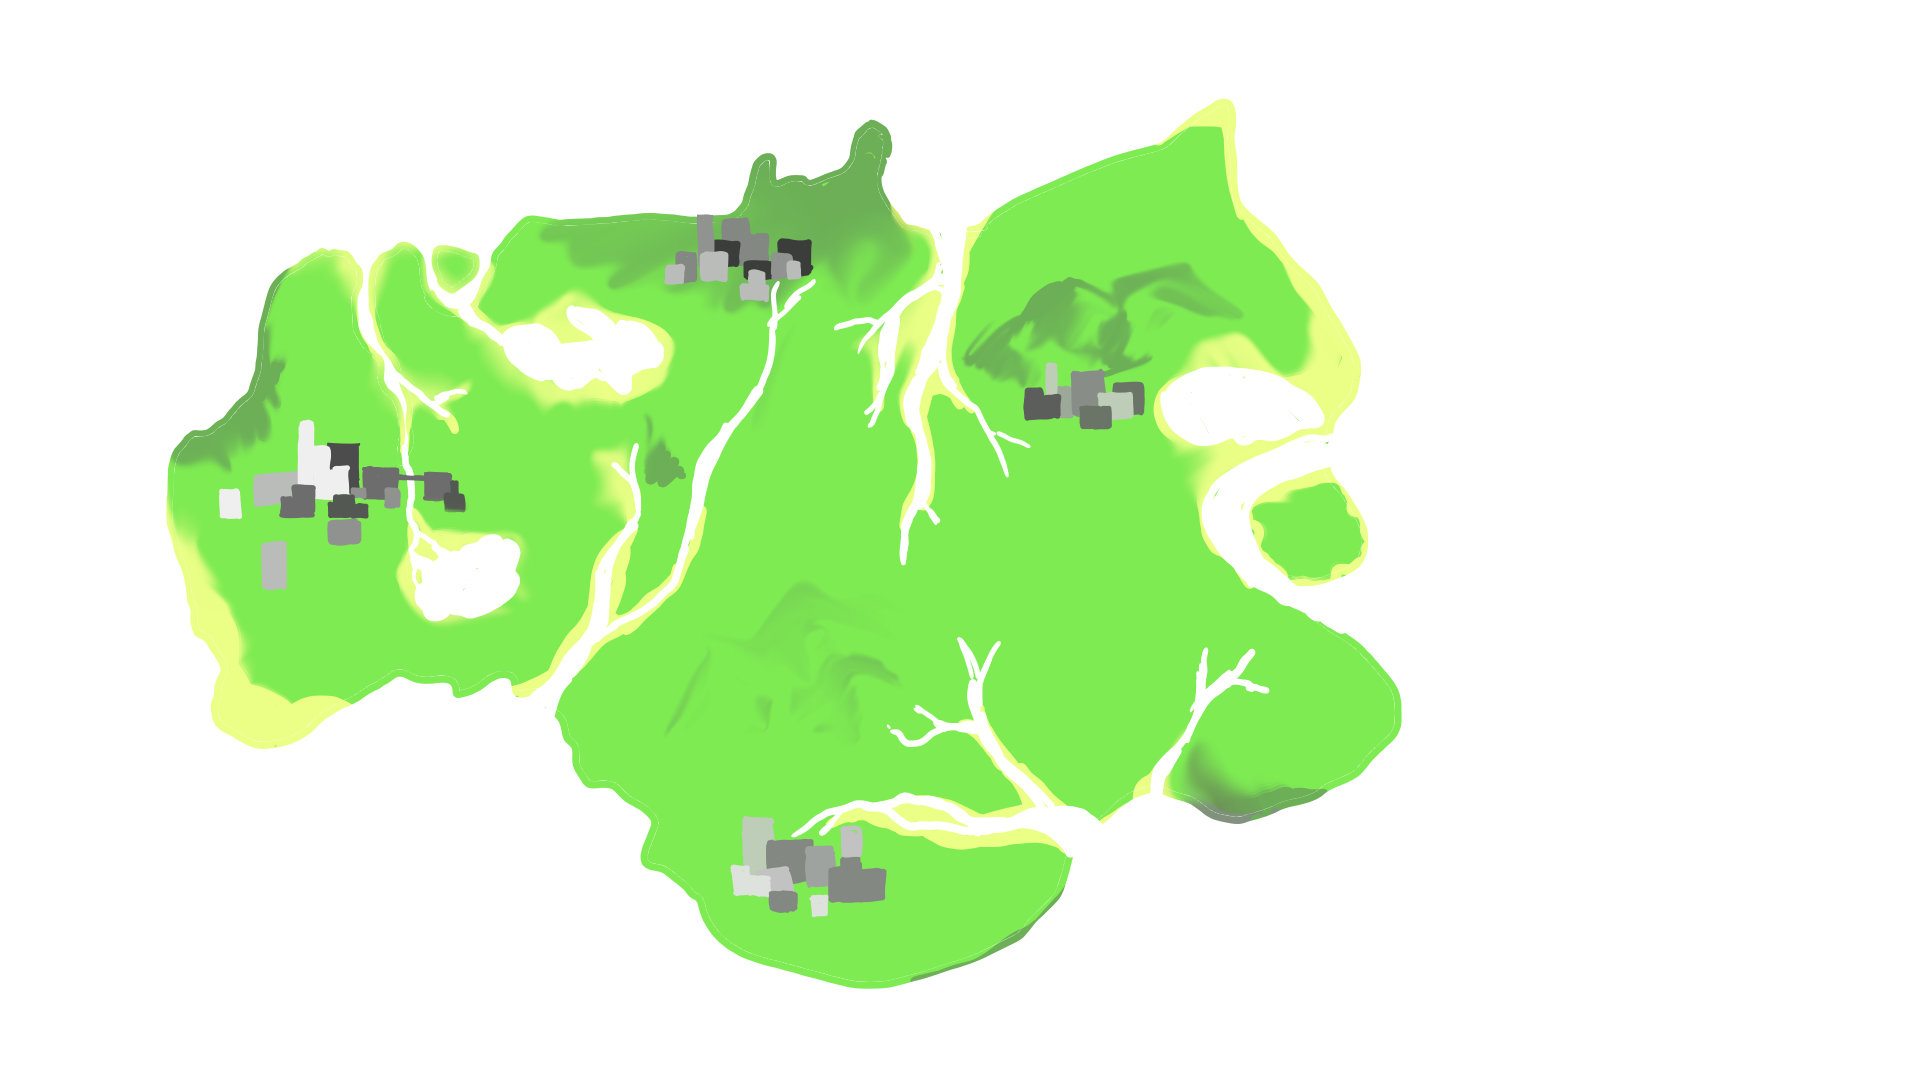
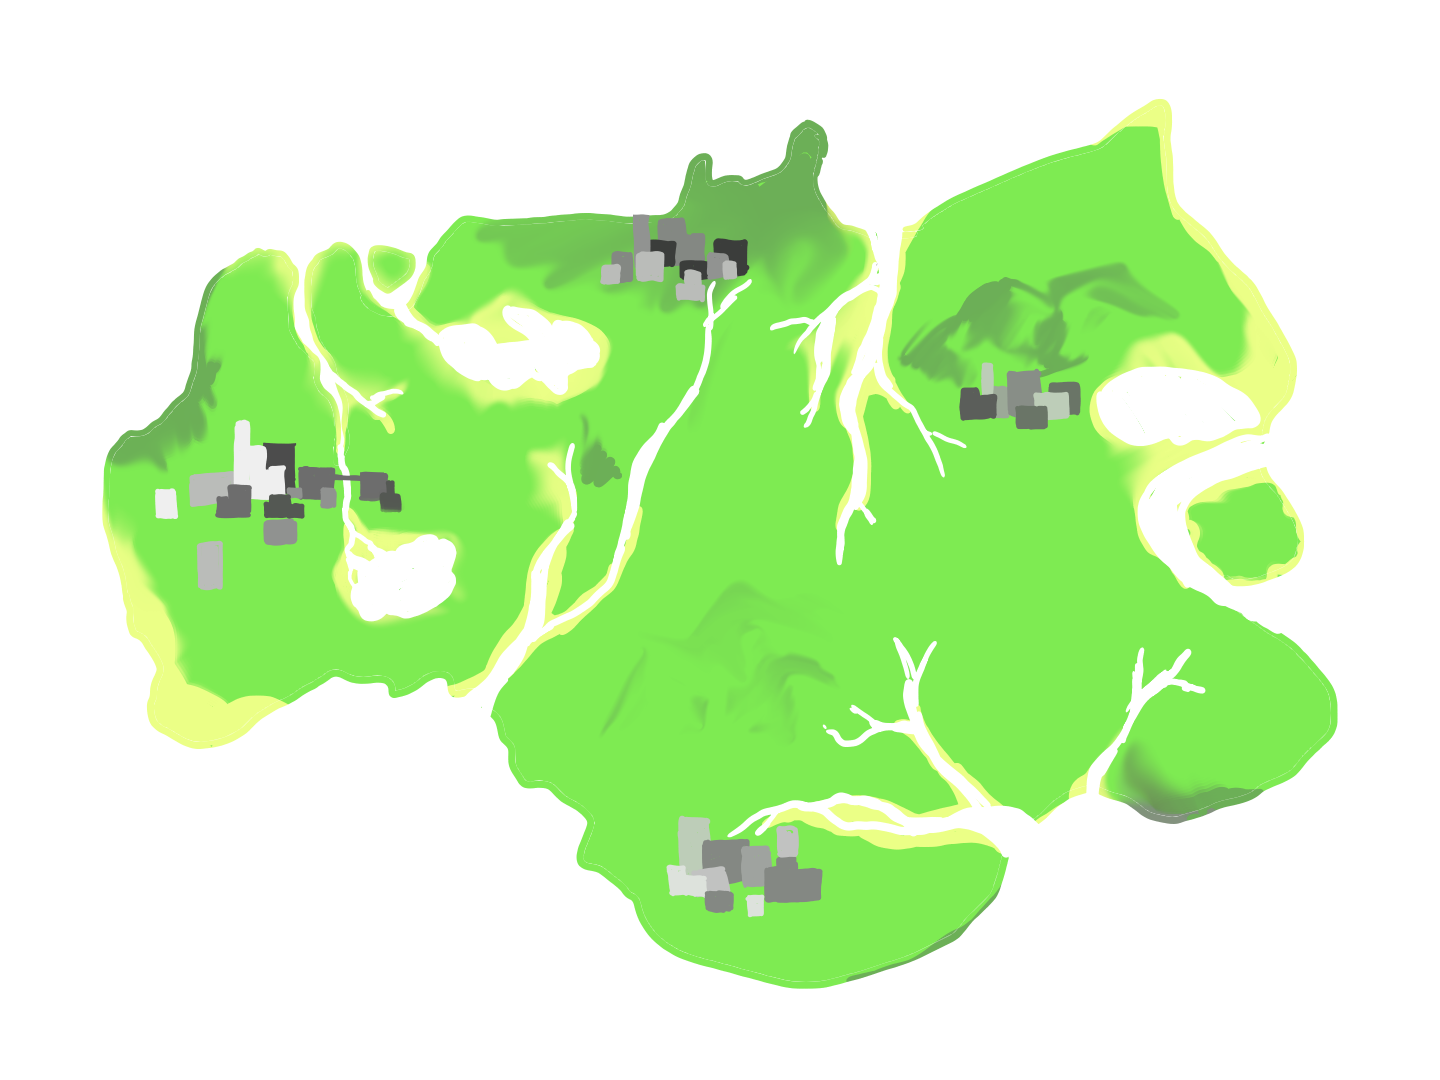
Fix layout issues

Changed region(s): [[0.0625, 0.0917, 0.9375, 0.9167], [0.4375, 0.6111, 0.4688, 0.6417]]

diff --git a/src/scss/play.scss b/src/scss/play.scss
@@ -34,12 +34,9 @@ button {
 }
 
 #game {
-	width: 100%;
 	height: 100%;
-
 	display: flex;
 	flex-direction: column;
-	justify-content: flex-end;
 
 	.game-overlay {
 		position: absolute;
@@ -74,14 +71,14 @@ button {
 	}
 
 	.game-content {
-		width: 100%;
-		height: 100%;
+		flex-grow: 1;
+		flex-shrink: 1;
 
 		display: flex;
 
 		.game-buy {
-			height: 100%;
-			width: 35rem;
+			flex-grow: 0;
+			flex-shrink: 1;
 
 			position: relative;
 			padding: $padding;
@@ -102,6 +99,12 @@ button {
 			}
 
 			.buy-reactors {
+				display: flex;
+				justify-content: space-between;
+				flex-wrap: wrap;
+
+				width: (12rem * 2) + 0.5rem;
+
 				.buy-reactor {
 					width: 12rem;
 
@@ -163,7 +166,8 @@ button {
 		}
 
 		.game-view {
-			width: auto;
+			flex-grow: 1;
+			flex-shrink: 1;
 
 			position: relative;
 
@@ -171,7 +175,10 @@ button {
 			justify-content: center;
 			align-items: center;
 
-			background: #3777dd;
+			background: url('/images/game-map.png'), #3777dd;
+			background-position: center;
+			background-size: contain;
+			background-repeat: no-repeat;
 
 			&.overlay:before {
 				content: ' ';
@@ -186,9 +193,12 @@ button {
 				background: rgba(0, 0, 0, 0.8);
 			}
 
-			.background {
-				max-width: 100%;
-				max-height: 100%;
+			.background-container {
+
+				.background {
+					max-width: 100%;
+					max-height: 100%;
+				}
 			}
 
 			.reactor {
@@ -208,7 +218,9 @@ button {
 	}
 
 	.game-status {
-		width: 100%;
+		flex-grow: 0;
+		flex-shrink: 1;
+
 		padding: 0.5rem;
 
 		position: relative;

diff --git a/src/scss/layout.scss b/src/scss/layout.scss
@@ -1,0 +1,31 @@
+html, body {
+	height: 100%;
+}
+
+#game {
+	height: 100%;
+	display: flex;
+	flex-direction: column;
+
+	.game-content {
+		flex-grow: 1;
+		flex-shrink: 1;
+
+		display: flex;
+
+		.game-buy {
+			flex-grow: 0;
+			flex-shrink: 1;
+		}
+
+		.game-view {
+			flex-grow: 1;
+			flex-shrink: 1;
+		}
+	}
+
+	.game-status {
+		flex-grow: 0;
+		flex-shrink: 1;
+	}
+}

diff --git a/src/index.js b/src/index.js
@@ -66,4 +66,8 @@ app.get('/essay', (req, res) => {
 	res.render('pages/essay');
 });
 
+app.get('/layout', (req, res) => {
+	res.render('pages/layout');
+})
+
 app.listen(port, () => console.log(`Server listening on *:${port}`));
